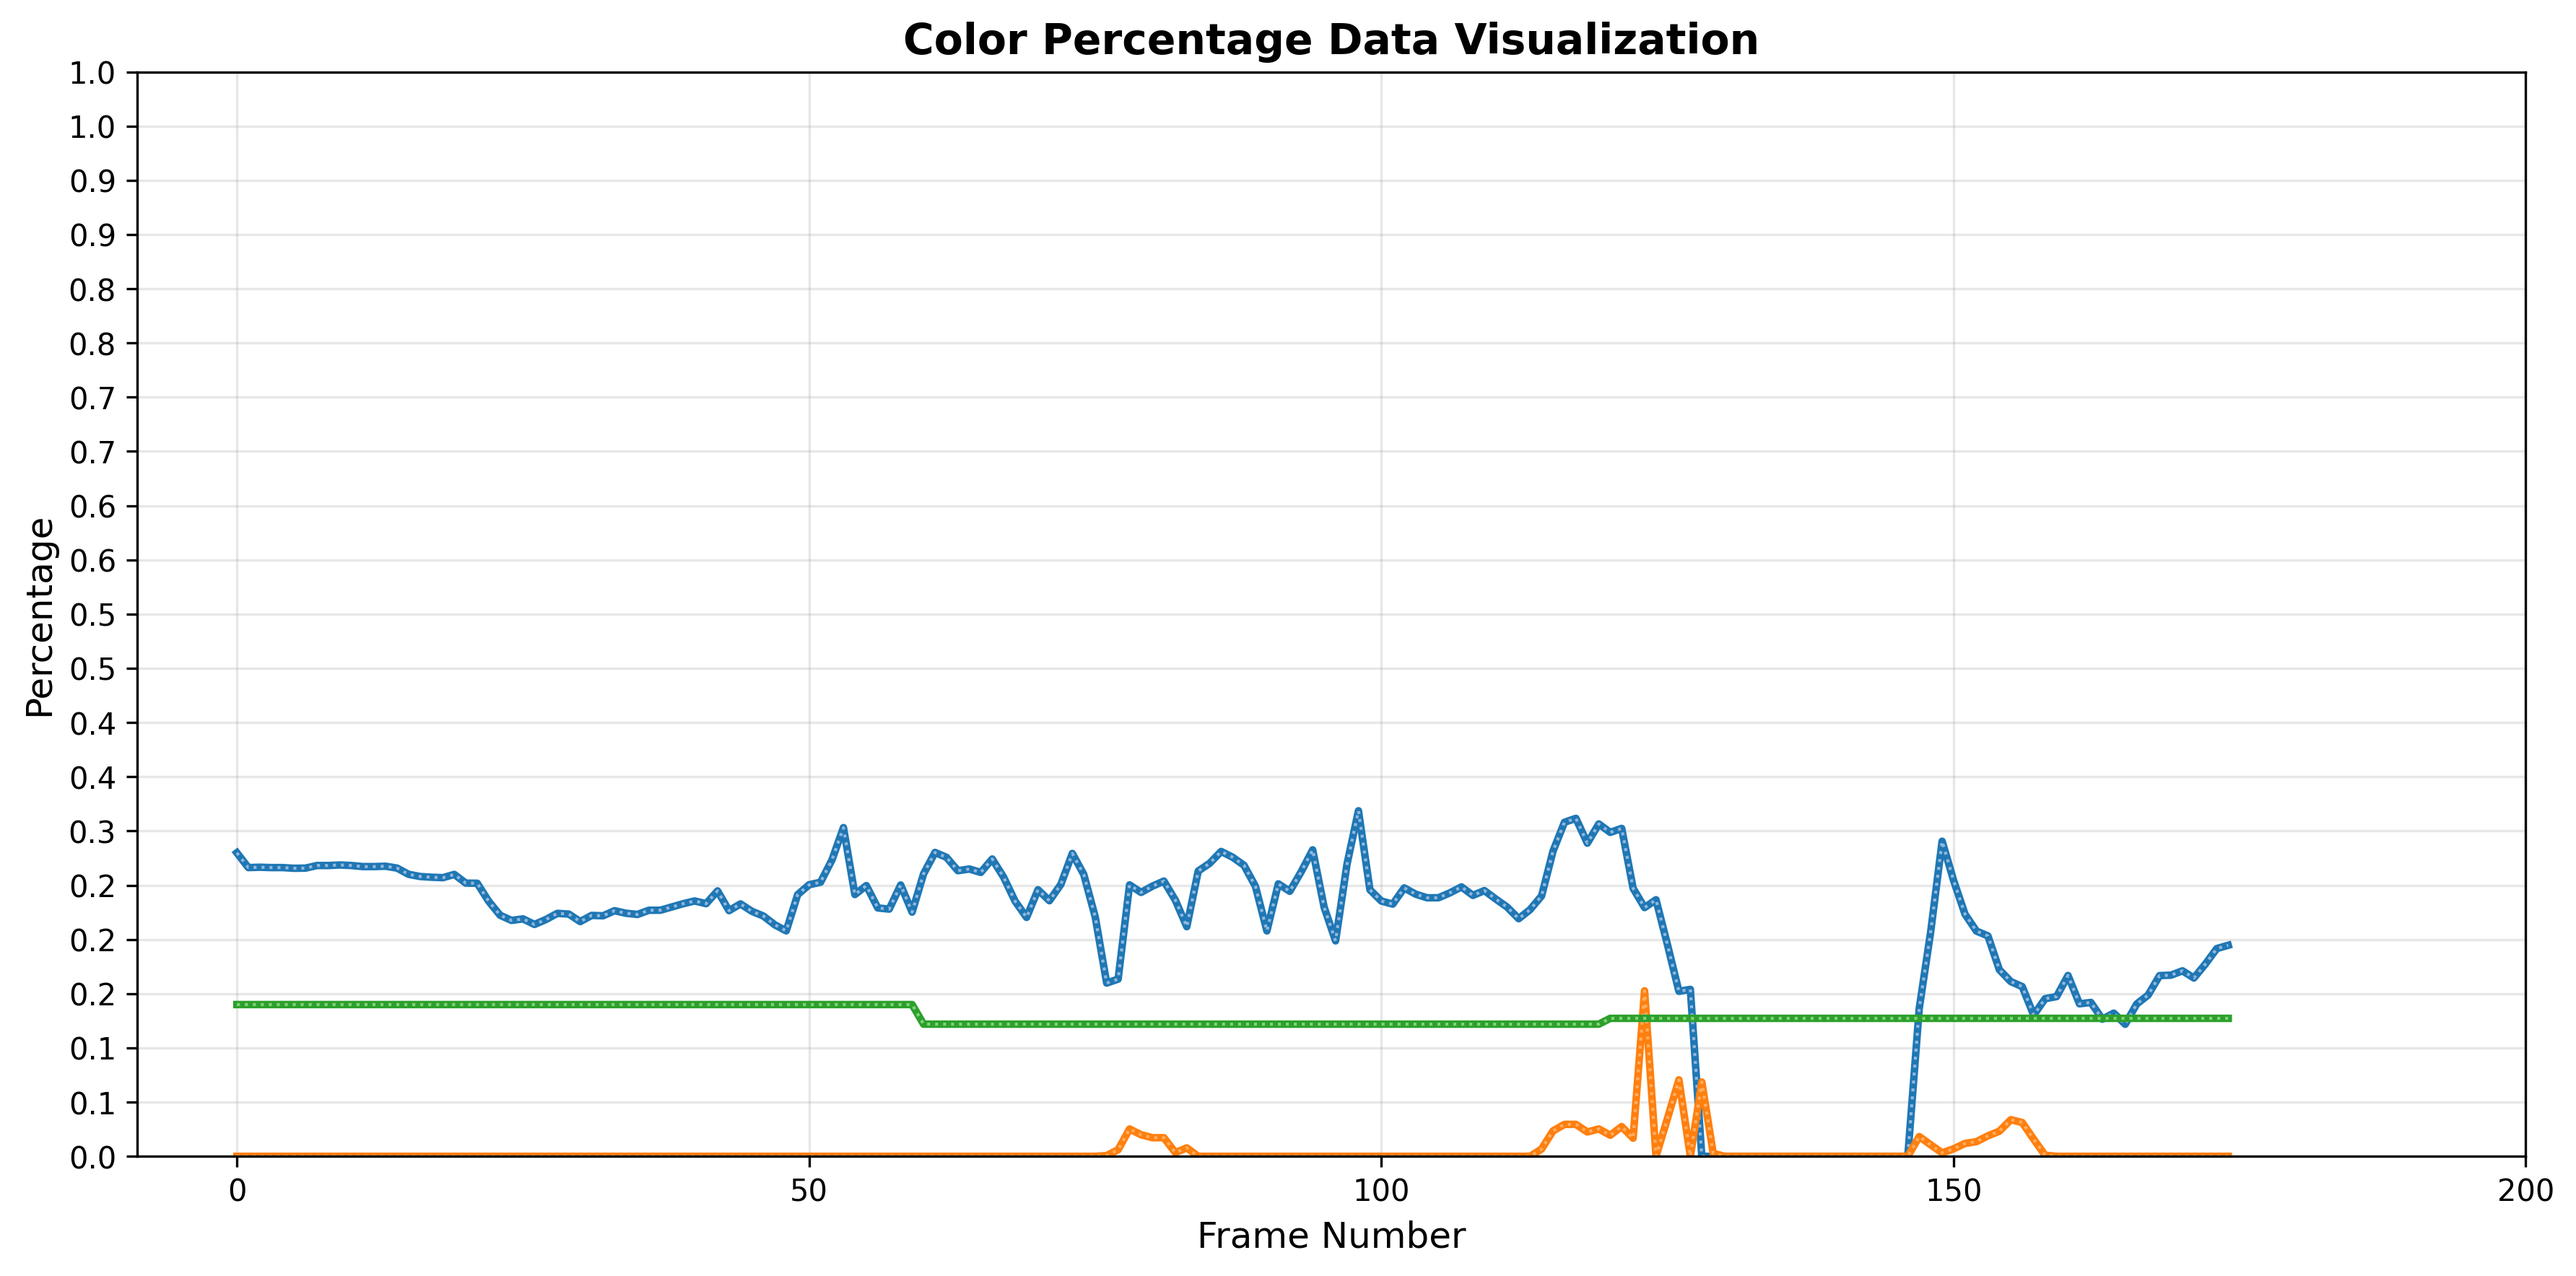
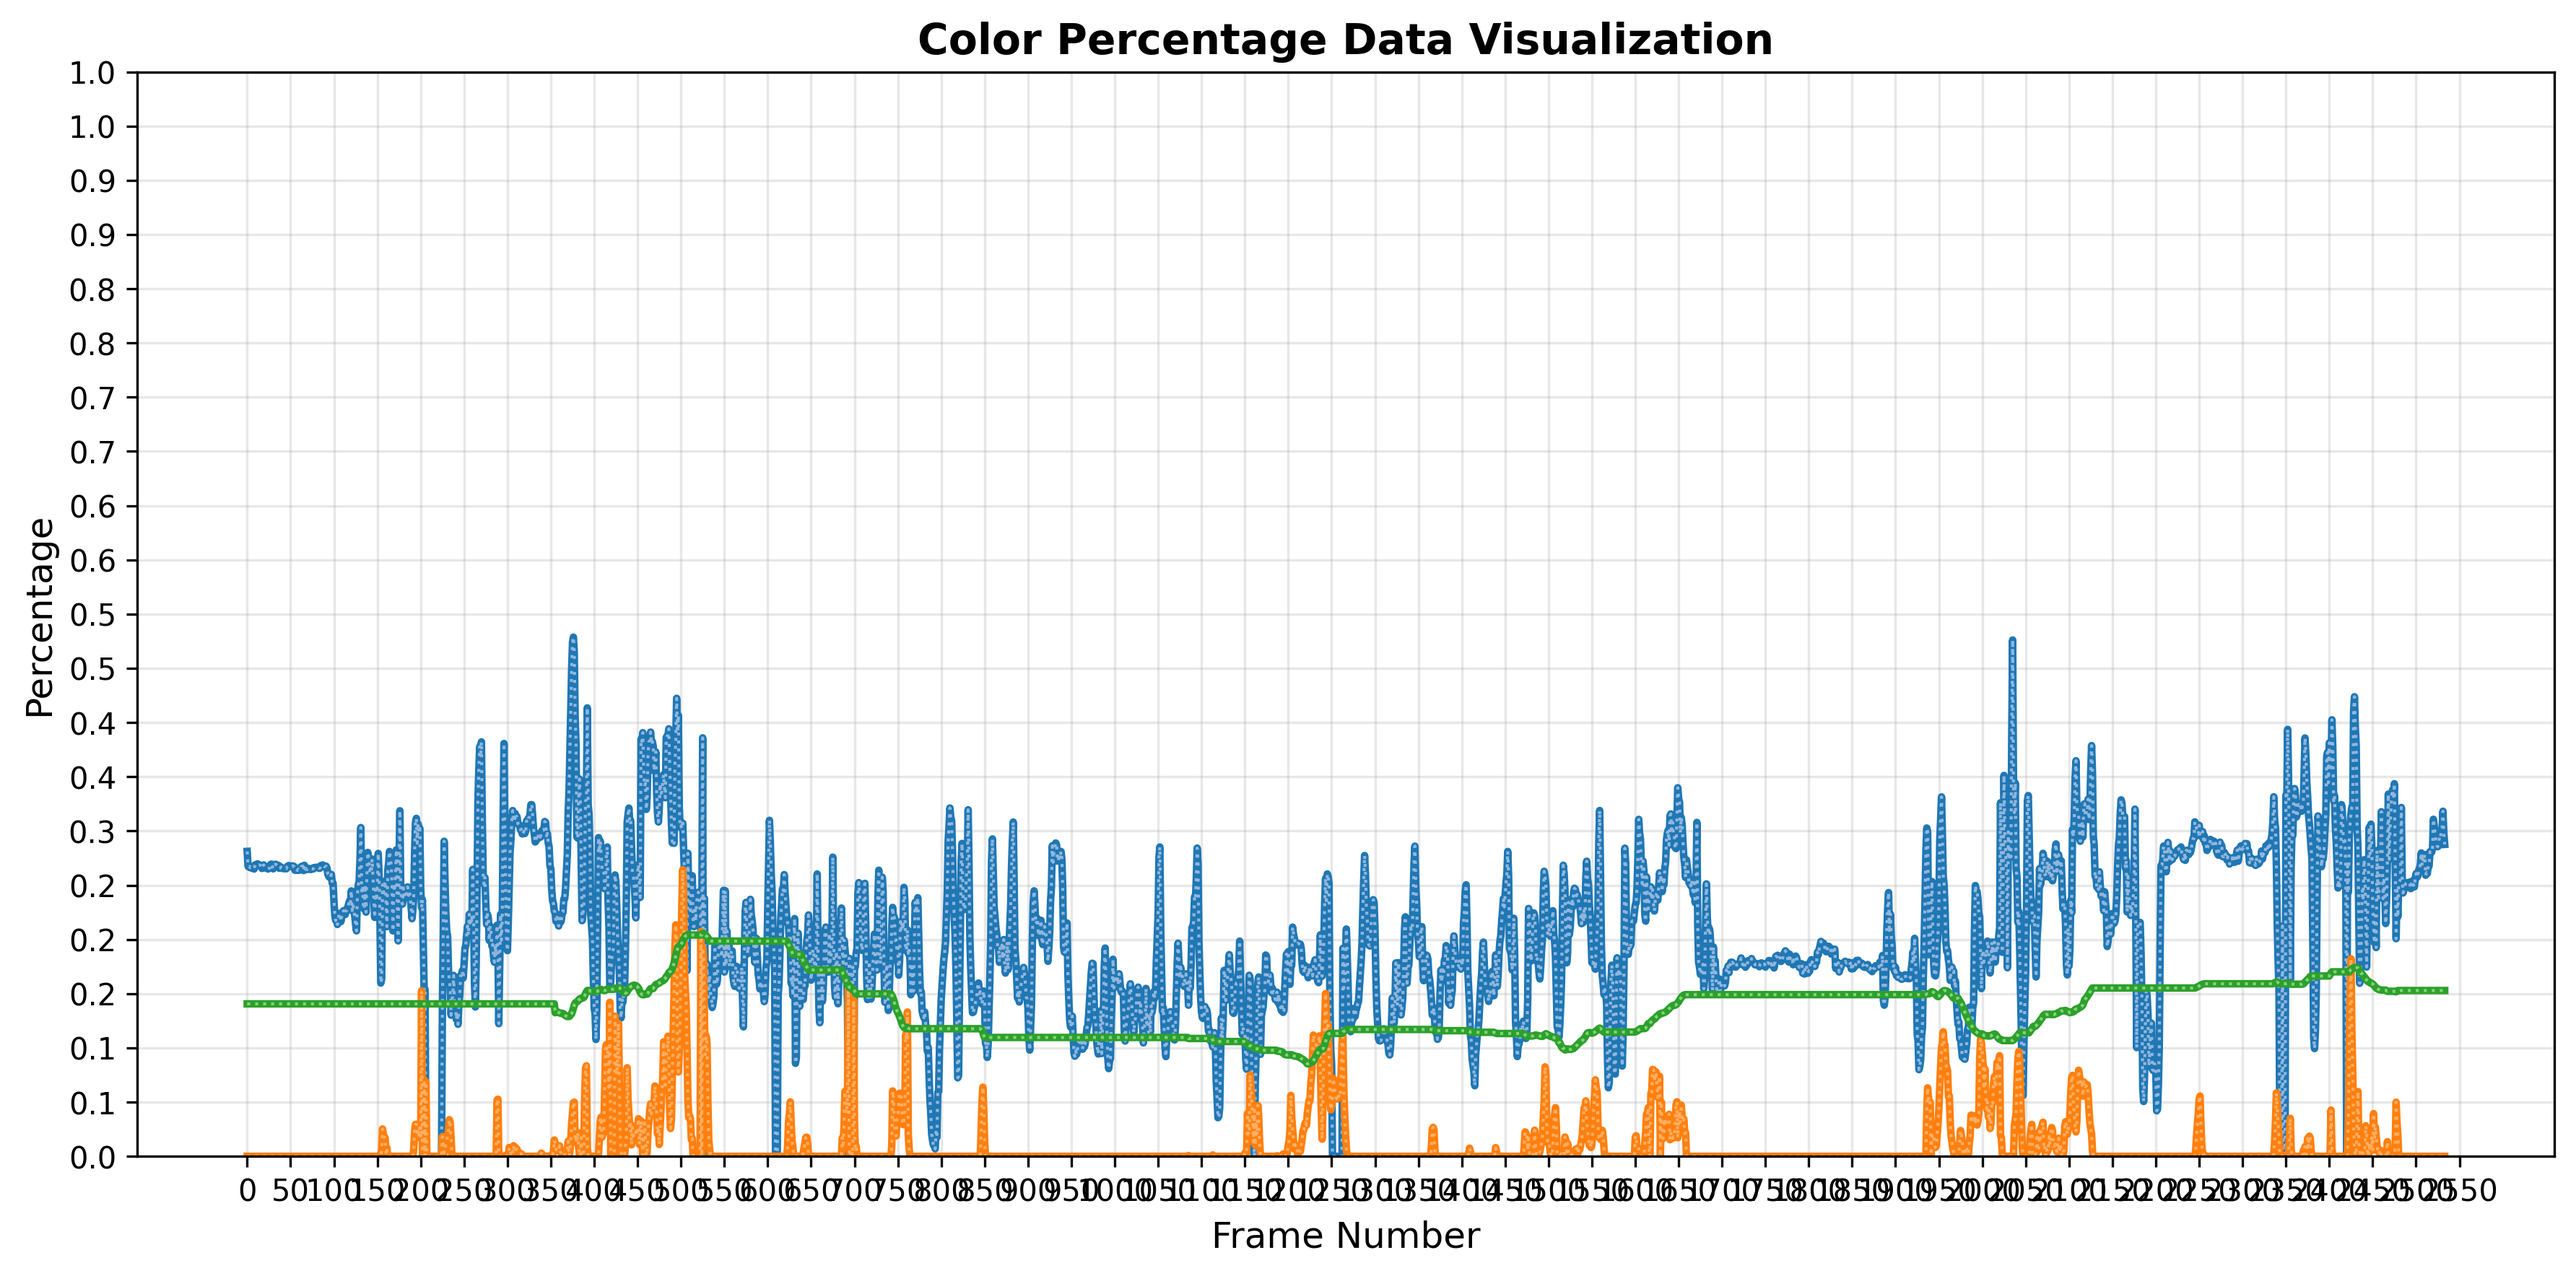
implemented sliding window approach with running sum

Changed region(s): [[0.0933, 0.4977, 0.9955, 0.9955], [0.3422, 0.0, 0.6844, 0.0622]]

diff --git a/corner_detection/corner_detection_helpers.py b/corner_detection/corner_detection_helpers.py
@@ -107,7 +107,6 @@ def find_our_bot(self, images: list[np.ndarray], bot_color_hsv, threshold_set=Tr
         return None
 
 def dynamic_threshold(self, threshold_set, bot_color_percentages):
-    print("💀 DYNAMIC THRESHOLD")
     # Case 1: Setting the initial threshold 
     if not threshold_set:
         print("case 1")
@@ -121,22 +120,30 @@ def dynamic_threshold(self, threshold_set, bot_color_percentages):
         else:
             self.huey_color_percentage_threshold = max(bot_color_percentages[0] - 0.075, MIN_THRESHOLD)
             print("Initial Threshold (1 robot): " + str(self.huey_color_percentage_threshold))
-
-    # Case 2: Setting threshold after initial frame based on self.dynamic_threshold_window
-    # TODO: figure out the optimal dynamic_threshold_window value, which is set in corner_detection.py
-    elif len(self.color_percentage_rows) > 0 and len(self.color_percentage_rows) % self.dynamic_threshold_window == 0:
-        recent_frames = self.color_percentage_rows[-self.dynamic_threshold_window:]
-
-        midpoints = []
-        for frame in recent_frames:
-            huey_percentage = frame[0]
-            enemy_percentage = frame[1]
-            if huey_percentage > 0 and enemy_percentage >= 0:
-                midpoints.append((huey_percentage + enemy_percentage)/2)
-        if midpoints:
-            self.huey_color_percentage_threshold = max(sum(midpoints) / len(recent_frames), MIN_THRESHOLD)
-            print("huey_color_percentage_threshold: " + str(self.huey_color_percentage_threshold))
     
+    # Case 2: Updating threshold and running sum using queue
+    elif threshold_set and len(bot_color_percentages) >= 2:
+        print("💀 DYNAMIC THRESHOLD")
+        huey_color_percentage = bot_color_percentages[-1]
+        enemy_color_percentage = bot_color_percentages[-2]
+
+        if huey_color_percentage > 0 and enemy_color_percentage > 0:
+            midpoint = (huey_color_percentage + enemy_color_percentage)/2
+            if len(self.threshold_queue) == self.dynamic_threshold_window:
+                # window is full so we can start caclulating
+                popped = self.threshold_queue[0]
+                self.running_sum += midpoint - popped
+                # add the new midpoint and subtract the oldest
+            else:
+                self.running_sum += midpoint
+                # add new midpoint if queue isnt full yet
+
+            self.threshold_queue.append(midpoint)
+            
+            if len(self.threshold_queue) == self.dynamic_threshold_window:
+                # set threshold if the queue is the size of the window we want to extract from
+                self.huey_color_percentage_threshold = max(self.running_sum / self.dynamic_threshold_window, MIN_THRESHOLD)
+
     # Dynamic threshold and graphing data
     if len(bot_color_percentages) >= 2:
         self.color_percentage_rows.append((bot_color_percentages[-1], bot_color_percentages[-2],self.huey_color_percentage_threshold))

diff --git a/corner_detection/corner_detection.py b/corner_detection/corner_detection.py
@@ -43,6 +43,8 @@ class RobotCornerDetection:
         self.thresh = thresh
         self.BLACKOUT = BLACKOUT
         self.dynamic_threshold_window = frame_rate//2 # Time/Number of Frames for the dynamic threshold for FindOurBot
+        self.threshold_queue = deque(maxlen = self.dynamic_threshold_window)
+        self.running_sum = 0 # running sum of midpoints for threshold logic
 
     def set_bots(self, bots: dict):
         self.bots = bots
